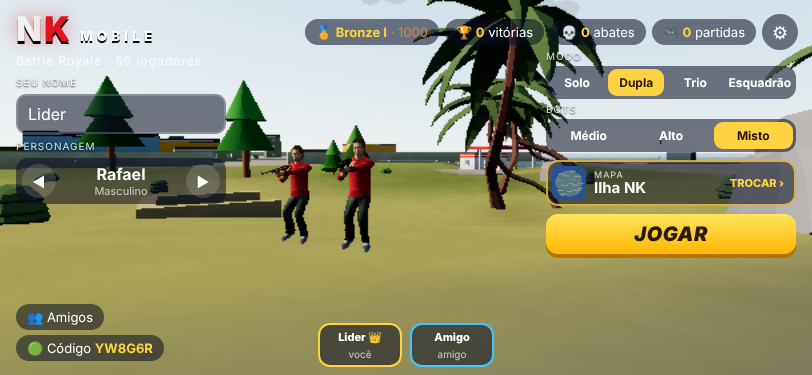
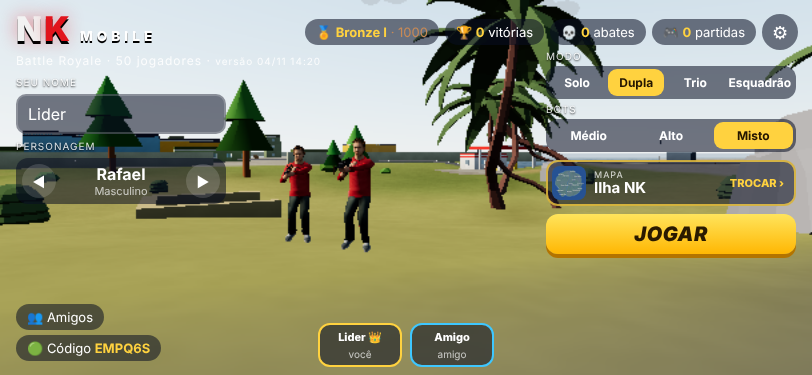
Desempenho no chão: árvores atualizam só o trecho perto do jogador, sombra a cada 2 quadros no Médio, menos chuva e distância de visão menor no Médio; versão visível no lobby e atualização automática
Claude-Session: https://claude.ai/code/session_01SsXJjxVDH4xiDTBBbbNyde

diff --git a/nk-mobile/index.html b/nk-mobile/index.html
@@ -5530,6 +5530,7 @@ THREE.Sky = Sky;
 setTimeout(function(){
 // ================= núcleo: utilidades, estado global e configurações =================
 const T = THREE;
+const BUILD = '04/11 14:20'; // data da versão (preenchida pelo build.py)
 // cores no espaço certo (sRGB -> linear) para usar curva de cor de cinema (ACES), estilo PUBG
 T.ColorManagement.legacyMode = false;
 // mapa escolhido no lobby (fica salvo; trocar de mapa recarrega a página, porque o mundo é montado uma vez só)
@@ -5590,7 +5591,7 @@ function toast(msg, s = 2.2, cls = '') {
 // ================= cena: renderizador, câmera, luz, céu e utilitários de geometria =================
 const renderer = new T.WebGLRenderer({ canvas: $('cv'), antialias: false, powerPreference: 'high-performance' });
 renderer.outputEncoding = T.sRGBEncoding; renderer.toneMapping = T.ACESFilmicToneMapping; renderer.toneMappingExposure = 0.92;
-const QUAL = [{ pr: 0.75, fog: 700, shadow: 0, grass: 0, post: 0 }, { pr: 1.25, fog: 1000, shadow: 1024, grass: 1, post: 1 }, { pr: 2, fog: 1200, shadow: 2048, grass: 1, post: 1 }];
+const QUAL = [{ pr: 0.75, fog: 600, shadow: 0, grass: 0, post: 0 }, { pr: 1.15, fog: 850, shadow: 1024, grass: 1, post: 1, rain: 1300 }, { pr: 2, fog: 1200, shadow: 2048, grass: 1, post: 1, rain: 2600 }];
 var DYN = 1; // escala de resolução dinâmica (baixa sozinha se o celular não segurar o FPS)
 const scene = new T.Scene();
 const SKY_C = new T.Color(MAPID === 'bal' ? 0xc6d4cf : 0xc3ced6); // névoa atmosférica (no Balneário, mais úmida e esverdeada)
@@ -6426,6 +6427,8 @@ const TREES = [], NAT = {};
     else if (r < (BALN ? 0.96 : 0.9)) bu.push([x, h, z, 0.7 + WR() * 0.7]);
     else rk.push([x, h, z, 0.8 + WR() * 1.6]);
   }
+  // ordena por faixa do mapa: árvores vizinhas ficam com índices próximos (a atualização perto do jogador manda só um trecho para a placa de vídeo)
+  const band = v => Math.floor(v[2] / 90); tr.sort((a, b) => band(a) - band(b) || a[0] - b[0]); bu.sort((a, b) => band(a) - band(b) || a[0] - b[0]);
   const dummy = new T.Object3D(), c = new T.Color();
   const trunk = new T.InstancedMesh(new T.CylinderGeometry(0.22, 0.3, 1, 6), new T.MeshLambertMaterial({ color: 0x7a4b2a }), tr.length);
   const crown = new T.InstancedMesh(new T.ConeGeometry(1, 1, 8), new T.MeshLambertMaterial({ color: 0xffffff }), tr.length * 2);
@@ -8671,7 +8674,7 @@ function renderLobby() {
   const c = CHARS[SET.char];
   const n = MODES.find(m => m[0] === G.mode)[2];
   el.innerHTML = `
-  <div class="lgo"><div class="logo nk"><b>N</b><i>K</i><em>MOBILE</em></div><div class="sub">Battle Royale · 50 jogadores</div></div>
+  <div class="lgo"><div class="logo nk"><b>N</b><i>K</i><em>MOBILE</em></div><div class="sub">Battle Royale · 50 jogadores · <small>versão ${BUILD}</small></div></div>
   <div class="lst">${(() => { const r = rankOf(SET.rp); return `<div class="pill" style="color:${r.c}">🏅 <b>${r.n}</b> · ${r.rp}</div>`; })()}<div class="pill">🏆 <b>${SET.wins}</b> vitórias</div><div class="pill">💀 <b>${SET.kills}</b> abates</div><div class="pill">🎮 <b>${SET.matches}</b> partidas</div><div class="hb2" id="lSet">⚙</div></div>
   <div class="lleft">
     <label class="lab">Seu nome</label><input id="lName" maxlength="14" value="${(SET.name || '').replace(/"/g, '')}">
@@ -9428,10 +9431,11 @@ function gfxStep(dt, fx, fy, fz) {
   // alto = mais de 45 m acima do chão (avião, queda livre, paraquedas): sem grama, sem árvore detalhada, sombra congelada
   const high = fy - Math.max(groundH(fx, fz), 0) > 45;
   GFX.t += dt; GRASS_U.value = GFX.t; if (typeof natureStep === 'function') natureStep(dt, fx, fz, high); if (GFX.water) GFX.water.uniforms.uT.value = GFX.t;
-  if (GFX.shadow) renderer.shadowMap.autoUpdate = !high || (GFX.shT = (GFX.shT || 0) + dt) > 1 && !(GFX.shT = 0);
+  // sombra: no Alto todo quadro; no Médio um quadro sim, outro não (quase não se nota e alivia muito o celular); no alto, congelada
+  if (GFX.shadow) renderer.shadowMap.autoUpdate = high ? (GFX.shT = (GFX.shT || 0) + dt) > 1 && !(GFX.shT = 0) : SET.quality >= 2 || (GFX.shF = !GFX.shF);
   shadowFollow(fx, fy, fz);
   grassM.visible = flowerM.visible = GFX.grassOn && !high;
-  if (GFX.grassOn && !high && Math.hypot(fx - GFX.gx, fz - GFX.gz) > 8) refreshGrass(fx, fz);
+  if (GFX.grassOn && !high && Math.hypot(fx - GFX.gx, fz - GFX.gz) > 12) refreshGrass(fx, fz);
 }
 
 // ================= humanos realistas (Microsoft Rocketbox, MIT): carregar, animar, segurar a arma, inclinar, deitar, sentar =================
@@ -9867,7 +9871,11 @@ function refreshNature(cx, cz) {
   if (!NATR.ready) return;
   NATR.cx = cx; NATR.cz = cz;
   const tm = NAT.trunk.instanceMatrix, cm = NAT.crown.instanceMatrix, c2 = NAT.crown2.instanceMatrix, bm = NAT.bush.instanceMatrix;
-  tm.array.set(NATR.orig.trunk); cm.array.set(NATR.orig.crown); c2.array.set(NATR.orig.crown2); bm.array.set(NATR.orig.bush);
+  // devolve só as árvores que estavam escondidas da última vez (antes copiava tudo: travava no celular)
+  const H = NATR.hid || (NATR.hid = { t: [], c: [], c2: [], b: [] });
+  const back = (arr, orig, list) => { for (const i of list) for (let k = 0; k < 16; k++) arr[i * 16 + k] = orig[i * 16 + k]; list.length = 0; };
+  const span = l => l.length ? [Math.min(...l), Math.max(...l)] : null, old = { t: span(H.t), c: span(H.c), c2: span(H.c2), b: span(H.b) };
+  back(tm.array, NATR.orig.trunk, H.t); back(cm.array, NATR.orig.crown, H.c); back(c2.array, NATR.orig.crown2, H.c2); back(bm.array, NATR.orig.bush, H.b);
   for (const k in NATR.inst) if (NATR.inst[k]) NATR.inst[k].count = 0;
   const put = (k, x, y, z, h, rot) => { const m = NATR.inst[k]; if (!m || m.count >= 420) return false; _nd.position.set(x, y, z); _nd.rotation.set(0, rot, 0); _nd.scale.setScalar(h); _nd.updateMatrix(); m.setMatrixAt(m.count++, _nd.matrix); return true; };
   const R = [55, 95, 130][SET.quality] || 95, R2 = R * R;
@@ -9876,17 +9884,19 @@ function refreshNature(cx, cz) {
     const r = hsh(x, z), beach = h < 6 && Math.hypot(x, z) > 520 * MK || MAPID === 'bal' && r > 0.62; // no Balneário, coqueiros por toda parte
     const k = beach ? TREE_PALM[0] : round ? TREE_ROUND[Math.floor(r * TREE_ROUND.length)] : MAPID === 'bal' ? TREE_PALM[0] : TREE_PINE[Math.floor(r * TREE_PINE.length)];
     if (!put(k, x, h - 0.05, z, (round ? 6.6 : 8.2) * s * (0.9 + r * 0.25), r * 6.28)) continue;
-    ZERO_M.toArray(tm.array, ti * 16); for (const j of idx) ZERO_M.toArray(round ? c2.array : cm.array, j * 16);
+    ZERO_M.toArray(tm.array, ti * 16); H.t.push(ti); for (const j of idx) { ZERO_M.toArray(round ? c2.array : cm.array, j * 16); (round ? H.c2 : H.c).push(j); }
   }
-  (NAT.bu || []).forEach(([x, h, z, s], i) => { if ((x - cx) ** 2 + (z - cz) ** 2 > R2) return; const r = hsh(x, z); if (put(BUSHES[Math.floor(r * BUSHES.length)], x, h - 0.05, z, 1.5 * s, r * 6.28)) ZERO_M.toArray(bm.array, i * 16); });
-  tm.needsUpdate = cm.needsUpdate = c2.needsUpdate = bm.needsUpdate = true;
+  (NAT.bu || []).forEach(([x, h, z, s], i) => { if ((x - cx) ** 2 + (z - cz) ** 2 > R2) return; const r = hsh(x, z); if (put(BUSHES[Math.floor(r * BUSHES.length)], x, h - 0.05, z, 1.5 * s, r * 6.28)) { ZERO_M.toArray(bm.array, i * 16); H.b.push(i); } });
+  // envia só o trecho alterado (antigo + novo) em vez do mapa inteiro
+  const send = (attr, o, list) => { const n = span(list), lo = Math.min(o ? o[0] : 1e9, n ? n[0] : 1e9), hi = Math.max(o ? o[1] : -1, n ? n[1] : -1); if (hi < 0) return; attr.updateRange.offset = lo * 16; attr.updateRange.count = (hi - lo + 1) * 16; attr.needsUpdate = true; };
+  send(tm, old.t, H.t); send(cm, old.c, H.c); send(c2, old.c2, H.c2); send(bm, old.b, H.b);
   for (const k in NATR.inst) if (NATR.inst[k]) NATR.inst[k].instanceMatrix.needsUpdate = true;
 }
 // no alto (avião, queda, paraquedas) não precisa de árvore detalhada: mostra só as simples e para de recalcular
 function natureStep(dt, fx, fz, high) {
   NAT_WIND.value += dt; if (!NATR.ready) return;
   if (high) { if (!NATR.off) { NATR.off = true; refreshNature(1e6, 1e6); } return; }
-  if (NATR.off || Math.hypot(fx - NATR.cx, fz - NATR.cz) > 14) { NATR.off = false; refreshNature(fx, fz); }
+  if (NATR.off || Math.hypot(fx - NATR.cx, fz - NATR.cz) > 24) { NATR.off = false; refreshNature(fx, fz); } // refaz a cada 24 m (antes 14)
 }
 
 // ---------- céu realista (dispersão atmosférica) ----------
@@ -10377,7 +10387,7 @@ function dynRes() {
   dynRes.t = now;
   // cada troca de resolução recria a imagem interna (dá um soluço): troca pouco, num passo só, e sobe devagar
   let d = DYN;
-  if (G.fps < 36 && DYN > 0.6) { d = Math.max(0.6, Math.round(DYN * Math.sqrt(G.fps / 48) * 10) / 10); dynRes.good = 0; }
+  if (G.fps < 42 && DYN > 0.55) { d = Math.max(0.55, Math.round(DYN * Math.sqrt(G.fps / 52) * 10) / 10); dynRes.good = 0; }
   else if (G.fps > 56 && DYN < 1) { if ((dynRes.good = (dynRes.good || 0) + 1) >= 4) { d = Math.min(1, DYN + 0.1); dynRes.good = 0; } }
   else dynRes.good = 0;
   if (Math.abs(d - DYN) > 0.01) { DYN = d; applyRes(); }
@@ -10746,7 +10756,7 @@ function setWeather(k) {
   if (typeof SKY2 !== 'undefined' && SKY2) { const u = SKY2.material.uniforms; u.sunPosition.value.copy(SUN_DIR); u.turbidity.value = w.tb; u.rayleigh.value = w.ry; SKY2.visible = w.sky; }
   for (const m of SUNDISK) { m.position.copy(SUN_DIR).multiplyScalar(2000); m.lookAt(0, 0, 0); m.visible = w.sky; }
   if (GFX.water) { GFX.water.uniforms.uSun.value.copy(SUN_DIR); GFX.water.uniforms.uSky.value.set(w.sky ? 0xb5c6d2 : w.fog); }
-  WX.rainOn = !!w.rain; RAIN.visible = WX.rainOn; nightExtras(!!w.night);
+  WX.rainOn = !!w.rain; RAIN.visible = WX.rainOn; RAIN.geometry.setDrawRange(0, ((QUAL[SET.quality] || QUAL[1]).rain || 900) * 2); // menos gotas no Médio/Leve nightExtras(!!w.night);
 }
 // a qualidade gráfica também mexe na névoa: reaplica o clima depois
 const _aq = applyQuality; applyQuality = function () { _aq(); if (typeof WX !== 'undefined' && WEATHER[WX.k].fk !== 1) setWeather(WX.k); };
@@ -10865,9 +10875,9 @@ loadHumans(() => {
 });
 $('loading').classList.add('hidden');
 requestAnimationFrame(frame);
-window.__G = { gfxStep, G, IN, ZONE, BLD, BOX, TOWNS, ROADS, RIVER, setWeather, drawMapOn, MAPID, PLANE, play, toLobby, startMatch, giveItem, mkWeapon, jumpOut, openChute, land, startHeal, switchWeapon, renderBag, openBag, toggleMap, closePanels, updateHud, updateCamera, drawActors, groundH, spawnLoot, callAirdrop, renderer, scene, camera, hurt, kill, gunGeo, dressGun, MAT, VEH, HUM, ON, PARTY, removeItem, pDrop, partyCreate, partyJoin, leaderStart, addFriendCode, tryVault, vaultPlan, NADES, SMOKES, FIRES, throwNade, pThrow, losClear, aimAndFire, fireShot, enterVeh, leaveVeh, addVehicle, stepVehicles };
+window.__G = { gfxStep, refreshGrass, refreshNature, G, IN, ZONE, BLD, BOX, TOWNS, ROADS, RIVER, setWeather, drawMapOn, MAPID, PLANE, play, toLobby, startMatch, giveItem, mkWeapon, jumpOut, openChute, land, startHeal, switchWeapon, renderBag, openBag, toggleMap, closePanels, updateHud, updateCamera, drawActors, groundH, spawnLoot, callAirdrop, renderer, scene, camera, hurt, kill, gunGeo, dressGun, MAT, VEH, HUM, ON, PARTY, removeItem, pDrop, partyCreate, partyJoin, leaderStart, addFriendCode, tryVault, vaultPlan, NADES, SMOKES, FIRES, throwNade, pThrow, losClear, aimAndFire, fireShot, enterVeh, leaveVeh, addVehicle, stepVehicles };
 // instala como app / funciona sem internet
-if ('serviceWorker' in navigator && location.protocol === 'https:') navigator.serviceWorker.register('sw.js').catch(() => { });
+if ('serviceWorker' in navigator && location.protocol === 'https:') { navigator.serviceWorker.register('sw.js').then(r => { try { r.update(); } catch (e) { } }).catch(() => { }); let had = !!navigator.serviceWorker.controller; navigator.serviceWorker.addEventListener('controllerchange', () => { if (had && G.phase !== 'match') location.reload(); had = true; }); } // versão nova chegou: recarrega sozinho no lobby
 
 }, 30);
 </script>

diff --git a/nk-mobile/src/19_nature.js b/nk-mobile/src/19_nature.js
@@ -57,7 +57,11 @@ function refreshNature(cx, cz) {
   if (!NATR.ready) return;
   NATR.cx = cx; NATR.cz = cz;
   const tm = NAT.trunk.instanceMatrix, cm = NAT.crown.instanceMatrix, c2 = NAT.crown2.instanceMatrix, bm = NAT.bush.instanceMatrix;
-  tm.array.set(NATR.orig.trunk); cm.array.set(NATR.orig.crown); c2.array.set(NATR.orig.crown2); bm.array.set(NATR.orig.bush);
+  // devolve só as árvores que estavam escondidas da última vez (antes copiava tudo: travava no celular)
+  const H = NATR.hid || (NATR.hid = { t: [], c: [], c2: [], b: [] });
+  const back = (arr, orig, list) => { for (const i of list) for (let k = 0; k < 16; k++) arr[i * 16 + k] = orig[i * 16 + k]; list.length = 0; };
+  const span = l => l.length ? [Math.min(...l), Math.max(...l)] : null, old = { t: span(H.t), c: span(H.c), c2: span(H.c2), b: span(H.b) };
+  back(tm.array, NATR.orig.trunk, H.t); back(cm.array, NATR.orig.crown, H.c); back(c2.array, NATR.orig.crown2, H.c2); back(bm.array, NATR.orig.bush, H.b);
   for (const k in NATR.inst) if (NATR.inst[k]) NATR.inst[k].count = 0;
   const put = (k, x, y, z, h, rot) => { const m = NATR.inst[k]; if (!m || m.count >= 420) return false; _nd.position.set(x, y, z); _nd.rotation.set(0, rot, 0); _nd.scale.setScalar(h); _nd.updateMatrix(); m.setMatrixAt(m.count++, _nd.matrix); return true; };
   const R = [55, 95, 130][SET.quality] || 95, R2 = R * R;
@@ -66,17 +70,19 @@ function refreshNature(cx, cz) {
     const r = hsh(x, z), beach = h < 6 && Math.hypot(x, z) > 520 * MK || MAPID === 'bal' && r > 0.62; // no Balneário, coqueiros por toda parte
     const k = beach ? TREE_PALM[0] : round ? TREE_ROUND[Math.floor(r * TREE_ROUND.length)] : MAPID === 'bal' ? TREE_PALM[0] : TREE_PINE[Math.floor(r * TREE_PINE.length)];
     if (!put(k, x, h - 0.05, z, (round ? 6.6 : 8.2) * s * (0.9 + r * 0.25), r * 6.28)) continue;
-    ZERO_M.toArray(tm.array, ti * 16); for (const j of idx) ZERO_M.toArray(round ? c2.array : cm.array, j * 16);
+    ZERO_M.toArray(tm.array, ti * 16); H.t.push(ti); for (const j of idx) { ZERO_M.toArray(round ? c2.array : cm.array, j * 16); (round ? H.c2 : H.c).push(j); }
   }
-  (NAT.bu || []).forEach(([x, h, z, s], i) => { if ((x - cx) ** 2 + (z - cz) ** 2 > R2) return; const r = hsh(x, z); if (put(BUSHES[Math.floor(r * BUSHES.length)], x, h - 0.05, z, 1.5 * s, r * 6.28)) ZERO_M.toArray(bm.array, i * 16); });
-  tm.needsUpdate = cm.needsUpdate = c2.needsUpdate = bm.needsUpdate = true;
+  (NAT.bu || []).forEach(([x, h, z, s], i) => { if ((x - cx) ** 2 + (z - cz) ** 2 > R2) return; const r = hsh(x, z); if (put(BUSHES[Math.floor(r * BUSHES.length)], x, h - 0.05, z, 1.5 * s, r * 6.28)) { ZERO_M.toArray(bm.array, i * 16); H.b.push(i); } });
+  // envia só o trecho alterado (antigo + novo) em vez do mapa inteiro
+  const send = (attr, o, list) => { const n = span(list), lo = Math.min(o ? o[0] : 1e9, n ? n[0] : 1e9), hi = Math.max(o ? o[1] : -1, n ? n[1] : -1); if (hi < 0) return; attr.updateRange.offset = lo * 16; attr.updateRange.count = (hi - lo + 1) * 16; attr.needsUpdate = true; };
+  send(tm, old.t, H.t); send(cm, old.c, H.c); send(c2, old.c2, H.c2); send(bm, old.b, H.b);
   for (const k in NATR.inst) if (NATR.inst[k]) NATR.inst[k].instanceMatrix.needsUpdate = true;
 }
 // no alto (avião, queda, paraquedas) não precisa de árvore detalhada: mostra só as simples e para de recalcular
 function natureStep(dt, fx, fz, high) {
   NAT_WIND.value += dt; if (!NATR.ready) return;
   if (high) { if (!NATR.off) { NATR.off = true; refreshNature(1e6, 1e6); } return; }
-  if (NATR.off || Math.hypot(fx - NATR.cx, fz - NATR.cz) > 14) { NATR.off = false; refreshNature(fx, fz); }
+  if (NATR.off || Math.hypot(fx - NATR.cx, fz - NATR.cz) > 24) { NATR.off = false; refreshNature(fx, fz); } // refaz a cada 24 m (antes 14)
 }
 
 // ---------- céu realista (dispersão atmosférica) ----------

diff --git a/nk-mobile/src/99_boot.js b/nk-mobile/src/99_boot.js
@@ -10,6 +10,6 @@ loadHumans(() => {
 });
 $('loading').classList.add('hidden');
 requestAnimationFrame(frame);
-window.__G = { gfxStep, G, IN, ZONE, BLD, BOX, TOWNS, ROADS, RIVER, setWeather, drawMapOn, MAPID, PLANE, play, toLobby, startMatch, giveItem, mkWeapon, jumpOut, openChute, land, startHeal, switchWeapon, renderBag, openBag, toggleMap, closePanels, updateHud, updateCamera, drawActors, groundH, spawnLoot, callAirdrop, renderer, scene, camera, hurt, kill, gunGeo, dressGun, MAT, VEH, HUM, ON, PARTY, removeItem, pDrop, partyCreate, partyJoin, leaderStart, addFriendCode, tryVault, vaultPlan, NADES, SMOKES, FIRES, throwNade, pThrow, losClear, aimAndFire, fireShot, enterVeh, leaveVeh, addVehicle, stepVehicles };
+window.__G = { gfxStep, refreshGrass, refreshNature, G, IN, ZONE, BLD, BOX, TOWNS, ROADS, RIVER, setWeather, drawMapOn, MAPID, PLANE, play, toLobby, startMatch, giveItem, mkWeapon, jumpOut, openChute, land, startHeal, switchWeapon, renderBag, openBag, toggleMap, closePanels, updateHud, updateCamera, drawActors, groundH, spawnLoot, callAirdrop, renderer, scene, camera, hurt, kill, gunGeo, dressGun, MAT, VEH, HUM, ON, PARTY, removeItem, pDrop, partyCreate, partyJoin, leaderStart, addFriendCode, tryVault, vaultPlan, NADES, SMOKES, FIRES, throwNade, pThrow, losClear, aimAndFire, fireShot, enterVeh, leaveVeh, addVehicle, stepVehicles };
 // instala como app / funciona sem internet
-if ('serviceWorker' in navigator && location.protocol === 'https:') navigator.serviceWorker.register('sw.js').catch(() => { });
+if ('serviceWorker' in navigator && location.protocol === 'https:') { navigator.serviceWorker.register('sw.js').then(r => { try { r.update(); } catch (e) { } }).catch(() => { }); let had = !!navigator.serviceWorker.controller; navigator.serviceWorker.addEventListener('controllerchange', () => { if (had && G.phase !== 'match') location.reload(); had = true; }); } // versão nova chegou: recarrega sozinho no lobby

diff --git a/nk-mobile/sw.js b/nk-mobile/sw.js
@@ -1,6 +1,6 @@
 // NK Mobile: funciona sem internet depois da primeira visita (gerado pelo build.py).
 // Página: rede primeiro (pega atualização), cache se estiver sem internet. Modelos e ícones: cache primeiro.
-const C = 'nkmobile-e4e4ce5420';
+const C = 'nkmobile-3a2a5bb260';
 const PRE = ["./", "index.html", "manifest.webmanifest", "brand/icon-1024.png", "brand/icon-180.png", "brand/icon-192.png", "brand/icon-32.png", "brand/icon-512.png", "brand/icon-maskable-512.png", "assets/CREDITS.md", "assets/plane.glb", "assets/chars/LICENSE-Rocketbox.txt", "assets/chars/anims.glb", "assets/chars/f_casual.glb", "assets/chars/f_jacket.glb", "assets/chars/f_police.glb", "assets/chars/f_soldier1.glb", "assets/chars/f_soldier2.glb", "assets/chars/m_casual.glb", "assets/chars/m_hoodie.glb", "assets/chars/m_police.glb", "assets/chars/m_soldier1.glb", "assets/chars/m_soldier2.glb", "assets/guns/akm.glb", "assets/guns/m16a2.glb", "assets/guns/m625.glb", "assets/guns/mosin.glb", "assets/guns/p226.glb", "assets/maps/bal.jpg", "assets/maps/nk.jpg", "assets/nature/BirchTree_2.glb", "assets/nature/Bush_1.glb", "assets/nature/Bush_2.glb", "assets/nature/CommonTree_3.glb", "assets/nature/CommonTree_4.glb", "assets/nature/PalmTree_2.glb", "assets/nature/PineTree_2.glb", "assets/nature/PineTree_4.glb", "assets/nature/Rock_1.glb", "assets/nature/Rock_2.glb", "assets/nature/Rock_3.glb", "assets/nature/Rock_4.glb", "assets/nature/Rock_5.glb", "assets/nature/Rock_Moss_1.glb", "assets/nature/Rock_Moss_2.glb", "assets/tex/terrain.jpg", "assets/tex/walls.jpg"];
 self.addEventListener('install', e => { e.waitUntil(caches.open(C).then(c => c.addAll(PRE)).then(() => self.skipWaiting())); });
 self.addEventListener('activate', e => { e.waitUntil(caches.keys().then(ks => Promise.all(ks.filter(k => (k.startsWith('nkmobile-') || k.startsWith('ilhazero-')) && k !== C).map(k => caches.delete(k)))).then(() => self.clients.claim())); });

diff --git a/nk-mobile/src/16_graphics.js b/nk-mobile/src/16_graphics.js
@@ -287,8 +287,9 @@ function gfxStep(dt, fx, fy, fz) {
   // alto = mais de 45 m acima do chão (avião, queda livre, paraquedas): sem grama, sem árvore detalhada, sombra congelada
   const high = fy - Math.max(groundH(fx, fz), 0) > 45;
   GFX.t += dt; GRASS_U.value = GFX.t; if (typeof natureStep === 'function') natureStep(dt, fx, fz, high); if (GFX.water) GFX.water.uniforms.uT.value = GFX.t;
-  if (GFX.shadow) renderer.shadowMap.autoUpdate = !high || (GFX.shT = (GFX.shT || 0) + dt) > 1 && !(GFX.shT = 0);
+  // sombra: no Alto todo quadro; no Médio um quadro sim, outro não (quase não se nota e alivia muito o celular); no alto, congelada
+  if (GFX.shadow) renderer.shadowMap.autoUpdate = high ? (GFX.shT = (GFX.shT || 0) + dt) > 1 && !(GFX.shT = 0) : SET.quality >= 2 || (GFX.shF = !GFX.shF);
   shadowFollow(fx, fy, fz);
   grassM.visible = flowerM.visible = GFX.grassOn && !high;
-  if (GFX.grassOn && !high && Math.hypot(fx - GFX.gx, fz - GFX.gz) > 8) refreshGrass(fx, fz);
+  if (GFX.grassOn && !high && Math.hypot(fx - GFX.gx, fz - GFX.gz) > 12) refreshGrass(fx, fz);
 }

diff --git a/nk-mobile/src/02_scene.js b/nk-mobile/src/02_scene.js
@@ -1,7 +1,7 @@
 // ================= cena: renderizador, câmera, luz, céu e utilitários de geometria =================
 const renderer = new T.WebGLRenderer({ canvas: $('cv'), antialias: false, powerPreference: 'high-performance' });
 renderer.outputEncoding = T.sRGBEncoding; renderer.toneMapping = T.ACESFilmicToneMapping; renderer.toneMappingExposure = 0.92;
-const QUAL = [{ pr: 0.75, fog: 700, shadow: 0, grass: 0, post: 0 }, { pr: 1.25, fog: 1000, shadow: 1024, grass: 1, post: 1 }, { pr: 2, fog: 1200, shadow: 2048, grass: 1, post: 1 }];
+const QUAL = [{ pr: 0.75, fog: 600, shadow: 0, grass: 0, post: 0 }, { pr: 1.15, fog: 850, shadow: 1024, grass: 1, post: 1, rain: 1300 }, { pr: 2, fog: 1200, shadow: 2048, grass: 1, post: 1, rain: 2600 }];
 var DYN = 1; // escala de resolução dinâmica (baixa sozinha se o celular não segurar o FPS)
 const scene = new T.Scene();
 const SKY_C = new T.Color(MAPID === 'bal' ? 0xc6d4cf : 0xc3ced6); // névoa atmosférica (no Balneário, mais úmida e esverdeada)

diff --git a/nk-mobile/src/12_lobby.js b/nk-mobile/src/12_lobby.js
@@ -39,7 +39,7 @@ function renderLobby() {
   const c = CHARS[SET.char];
   const n = MODES.find(m => m[0] === G.mode)[2];
   el.innerHTML = `
-  <div class="lgo"><div class="logo nk"><b>N</b><i>K</i><em>MOBILE</em></div><div class="sub">Battle Royale · 50 jogadores</div></div>
+  <div class="lgo"><div class="logo nk"><b>N</b><i>K</i><em>MOBILE</em></div><div class="sub">Battle Royale · 50 jogadores · <small>versão ${BUILD}</small></div></div>
   <div class="lst">${(() => { const r = rankOf(SET.rp); return `<div class="pill" style="color:${r.c}">🏅 <b>${r.n}</b> · ${r.rp}</div>`; })()}<div class="pill">🏆 <b>${SET.wins}</b> vitórias</div><div class="pill">💀 <b>${SET.kills}</b> abates</div><div class="pill">🎮 <b>${SET.matches}</b> partidas</div><div class="hb2" id="lSet">⚙</div></div>
   <div class="lleft">
     <label class="lab">Seu nome</label><input id="lName" maxlength="14" value="${(SET.name || '').replace(/"/g, '')}">

diff --git a/nk-mobile/src/25_weather.js b/nk-mobile/src/25_weather.js
@@ -24,7 +24,7 @@ function setWeather(k) {
   if (typeof SKY2 !== 'undefined' && SKY2) { const u = SKY2.material.uniforms; u.sunPosition.value.copy(SUN_DIR); u.turbidity.value = w.tb; u.rayleigh.value = w.ry; SKY2.visible = w.sky; }
   for (const m of SUNDISK) { m.position.copy(SUN_DIR).multiplyScalar(2000); m.lookAt(0, 0, 0); m.visible = w.sky; }
   if (GFX.water) { GFX.water.uniforms.uSun.value.copy(SUN_DIR); GFX.water.uniforms.uSky.value.set(w.sky ? 0xb5c6d2 : w.fog); }
-  WX.rainOn = !!w.rain; RAIN.visible = WX.rainOn; nightExtras(!!w.night);
+  WX.rainOn = !!w.rain; RAIN.visible = WX.rainOn; RAIN.geometry.setDrawRange(0, ((QUAL[SET.quality] || QUAL[1]).rain || 900) * 2); // menos gotas no Médio/Leve nightExtras(!!w.night);
 }
 // a qualidade gráfica também mexe na névoa: reaplica o clima depois
 const _aq = applyQuality; applyQuality = function () { _aq(); if (typeof WX !== 'undefined' && WEATHER[WX.k].fk !== 1) setWeather(WX.k); };

diff --git a/nk-mobile/src/03_world.js b/nk-mobile/src/03_world.js
@@ -762,6 +762,8 @@ const TREES = [], NAT = {};
     else if (r < (BALN ? 0.96 : 0.9)) bu.push([x, h, z, 0.7 + WR() * 0.7]);
     else rk.push([x, h, z, 0.8 + WR() * 1.6]);
   }
+  // ordena por faixa do mapa: árvores vizinhas ficam com índices próximos (a atualização perto do jogador manda só um trecho para a placa de vídeo)
+  const band = v => Math.floor(v[2] / 90); tr.sort((a, b) => band(a) - band(b) || a[0] - b[0]); bu.sort((a, b) => band(a) - band(b) || a[0] - b[0]);
   const dummy = new T.Object3D(), c = new T.Color();
   const trunk = new T.InstancedMesh(new T.CylinderGeometry(0.22, 0.3, 1, 6), new T.MeshLambertMaterial({ color: 0x7a4b2a }), tr.length);
   const crown = new T.InstancedMesh(new T.ConeGeometry(1, 1, 8), new T.MeshLambertMaterial({ color: 0xffffff }), tr.length * 2);

diff --git a/nk-mobile/src/22_post.js b/nk-mobile/src/22_post.js
@@ -63,7 +63,7 @@ function dynRes() {
   dynRes.t = now;
   // cada troca de resolução recria a imagem interna (dá um soluço): troca pouco, num passo só, e sobe devagar
   let d = DYN;
-  if (G.fps < 36 && DYN > 0.6) { d = Math.max(0.6, Math.round(DYN * Math.sqrt(G.fps / 48) * 10) / 10); dynRes.good = 0; }
+  if (G.fps < 42 && DYN > 0.55) { d = Math.max(0.55, Math.round(DYN * Math.sqrt(G.fps / 52) * 10) / 10); dynRes.good = 0; }
   else if (G.fps > 56 && DYN < 1) { if ((dynRes.good = (dynRes.good || 0) + 1) >= 4) { d = Math.min(1, DYN + 0.1); dynRes.good = 0; } }
   else dynRes.good = 0;
   if (Math.abs(d - DYN) > 0.01) { DYN = d; applyRes(); }

diff --git a/nk-mobile/src/01_core.js b/nk-mobile/src/01_core.js
@@ -1,5 +1,6 @@
 // ================= núcleo: utilidades, estado global e configurações =================
 const T = THREE;
+const BUILD = '%%BUILD%%'; // data da versão (preenchida pelo build.py)
 // cores no espaço certo (sRGB -> linear) para usar curva de cor de cinema (ACES), estilo PUBG
 T.ColorManagement.legacyMode = false;
 // mapa escolhido no lobby (fica salvo; trocar de mapa recarrega a página, porque o mundo é montado uma vez só)

diff --git a/nk-mobile/build.py b/nk-mobile/build.py
@@ -7,6 +7,8 @@ body = open(f'{src}/body.html', encoding='utf-8').read()
 three = open(os.path.join(ROOT, 'vendor/three.min.js'), encoding='utf-8').read() + '\n' + open(os.path.join(ROOT, 'vendor/gltf.js'), encoding='utf-8').read()
 assert '</script' not in three.lower()
 js = '\n'.join(open(f'{src}/{f}', encoding='utf-8').read() for f in sorted(os.listdir(src)) if f.endswith('.js'))
+import datetime
+js = js.replace('%%BUILD%%', (datetime.datetime.now(datetime.timezone.utc) - datetime.timedelta(hours=3)).strftime('%d/%m %H:%M'))  # horário de Brasília
 assert '</script' not in js.lower()
 # o setTimeout deixa a tela de carregamento aparecer antes de montar a ilha
 scripts = f'<script>{three}</script>\n<script>\nsetTimeout(function(){{\n{js}\n}}, 30);\n</script>'
